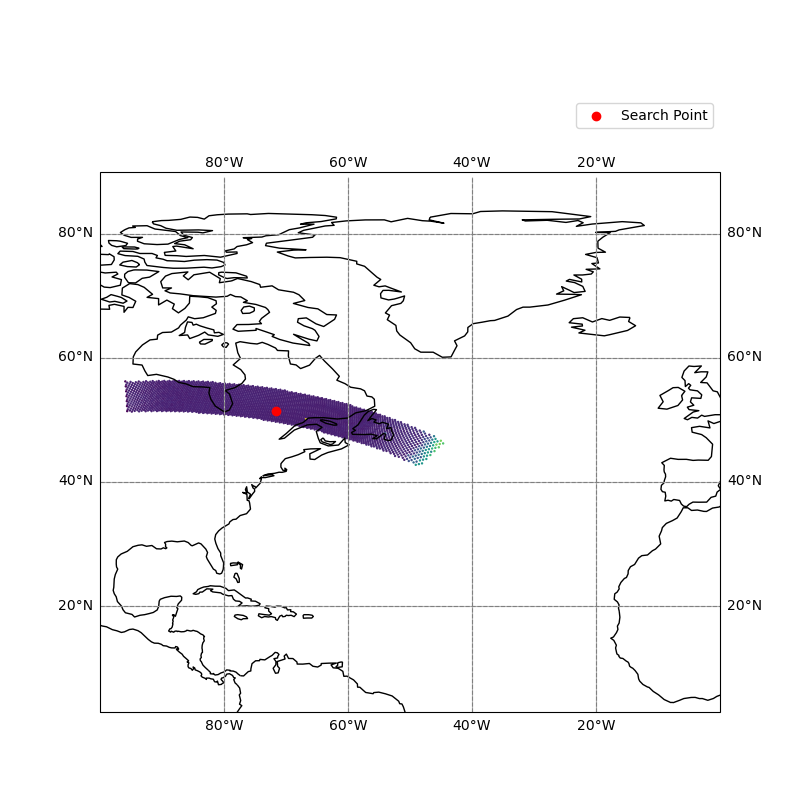
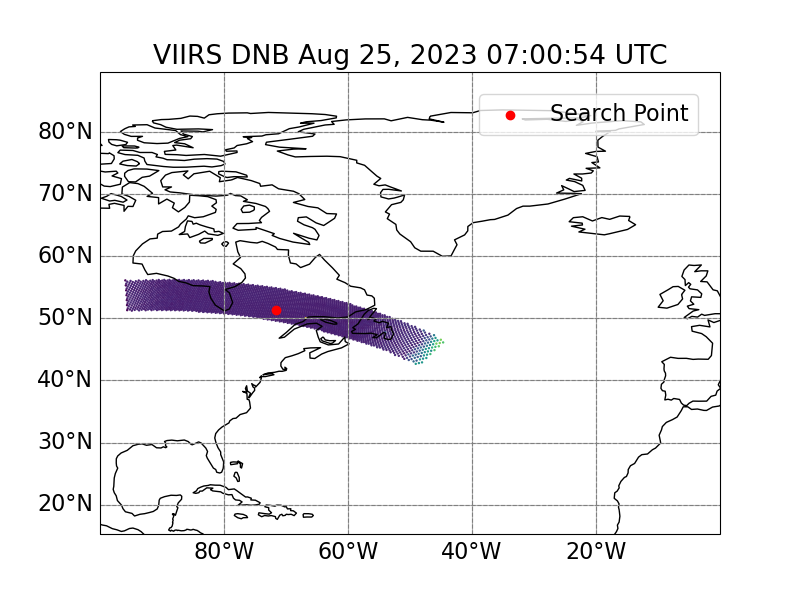
Finalizing example

diff --git a/sample_plot.py b/sample_plot.py
@@ -1,0 +1,67 @@
+import numpy as np
+import matplotlib.pyplot as plt
+from matplotlib.patches import Polygon
+import cartopy.crs as ccrs
+import matplotlib.patches as mpatches
+import matplotlib.ticker as mticker
+from cartopy.mpl.gridliner import LONGITUDE_FORMATTER, LATITUDE_FORMATTER
+import h5py
+import time
+plt.rcParams.update({'font.size': 16})
+
+
+# Sample file path/names:
+geofile = 'data/GDNBO_j01_d20230825_t0700543_e0702188_b29878_c20230825074232550000_oebc_ops.h5'
+radfile = 'data/SVDNB_j01_d20230825_t0700543_e0702188_b29878_c20230825074447069000_oebc_ops.h5'
+
+# Open the sample geo file, extract the lat, lon coordinates
+# Note: Scaling the grid by 100 to save processing time, for demo purposes only
+fid = h5py.File(geofile, 'r')
+lon_viirs = fid['/All_Data/VIIRS-DNB-GEO_All/Longitude_TC'][:,:]
+lat_viirs = fid['/All_Data/VIIRS-DNB-GEO_All/Latitude_TC'][:,:]
+
+# Open the sample radiance file, extract the lat, lon coordinates
+fid_rad = h5py.File(radfile, 'r')
+rad_viirs = fid_rad['/All_Data/VIIRS-DNB-SDR_All/Radiance'][:,:]
+
+# Sample point
+targetlat = 53.0
+targetlon = -78.0
+
+# Create a map using PlateCarree projection 
+fig = plt.figure(figsize=[8,6])
+ax = plt.axes(projection=ccrs.PlateCarree())
+
+xx = lon_viirs.flatten()
+yy = lat_viirs.flatten()
+
+# VIIRS
+xx = lon_viirs.flatten()
+yy = lat_viirs.flatten()
+zz = rad_viirs.flatten()
+tmp_rad = ax.scatter(xx[::1000], yy[::1000], c=zz[::1000], transform=ccrs.PlateCarree(), s=0.5)
+# plt.colorbar(tmp_rad)
+
+# Search point
+ax.scatter(-71.55289, 51.44279, color='red', label='Search Point', transform=ccrs.PlateCarree())
+
+# Set map features
+ax.set_extent([-100, 0, 40, 65], ccrs.PlateCarree())  # Adjust the extent for Canada
+
+ax.coastlines()
+ax.gridlines()
+
+# Add gridlines with lat/lon labels
+gl = ax.gridlines(draw_labels=True, linestyle='--', color='gray')
+gl.xformatter = LONGITUDE_FORMATTER
+gl.yformatter = LATITUDE_FORMATTER
+gl.xlabels_top = False
+gl.ylabels_right = False
+
+ax.set_aspect('equal', adjustable='datalim')
+ax.legend(loc='upper right', borderaxespad=1)
+
+ax.set_title("VIIRS DNB Aug 25, 2023 07:00:54 UTC")
+
+plt.savefig('test_data.png')
+plt.close()

diff --git a/README.md b/README.md
@@ -1,4 +1,11 @@
-# Example for ESSIC Workshop
+# Leveraging ChatGPT for Converting IDL Code to Python
 Author: Rebekah Esmaili, Science and Technology Corp. (STC)
+Presented at the UMD ESSIC Seminar Series on Aug 28, 2023
+
+# Purpose
+Scientists commonly write their code and algorithms in legacy languages such as IDL, which is computationally fast and geared toward scientific programming. However, maintenance can be expensive due to licensing costs, and languages may not be cloud-computing optimized. As a result, agencies like NASA and NOAA are increasingly interested in converting IDL software into modern languages like Python. Converting legacy IDL code to Python can be more productive using generative AI tools like ChatGPT. This seminar introduces how ChatGPT can simplify the transition and showcase practical code conversion from IDL to Python through a live demonstration. We’ll discuss some code migration strategies, best practices, and challenges. Join us to embrace the fusion of AI and scientific computing, revolutionizing legacy code modernization with ChatGPT.
+
+# Example code
+There is an interactive example, click on the Binder following link and select ```examples.ipynb``` to launch the notebook. This will walk through how to convert the code found in ```sample_idl_code.pro``` The solutions are in ```solutions.ipynb```.
 
 [![Binder](https://mybinder.org/badge_logo.svg)](https://mybinder.org/v2/gh/modern-tools-workshop/legacy-code/HEAD)
